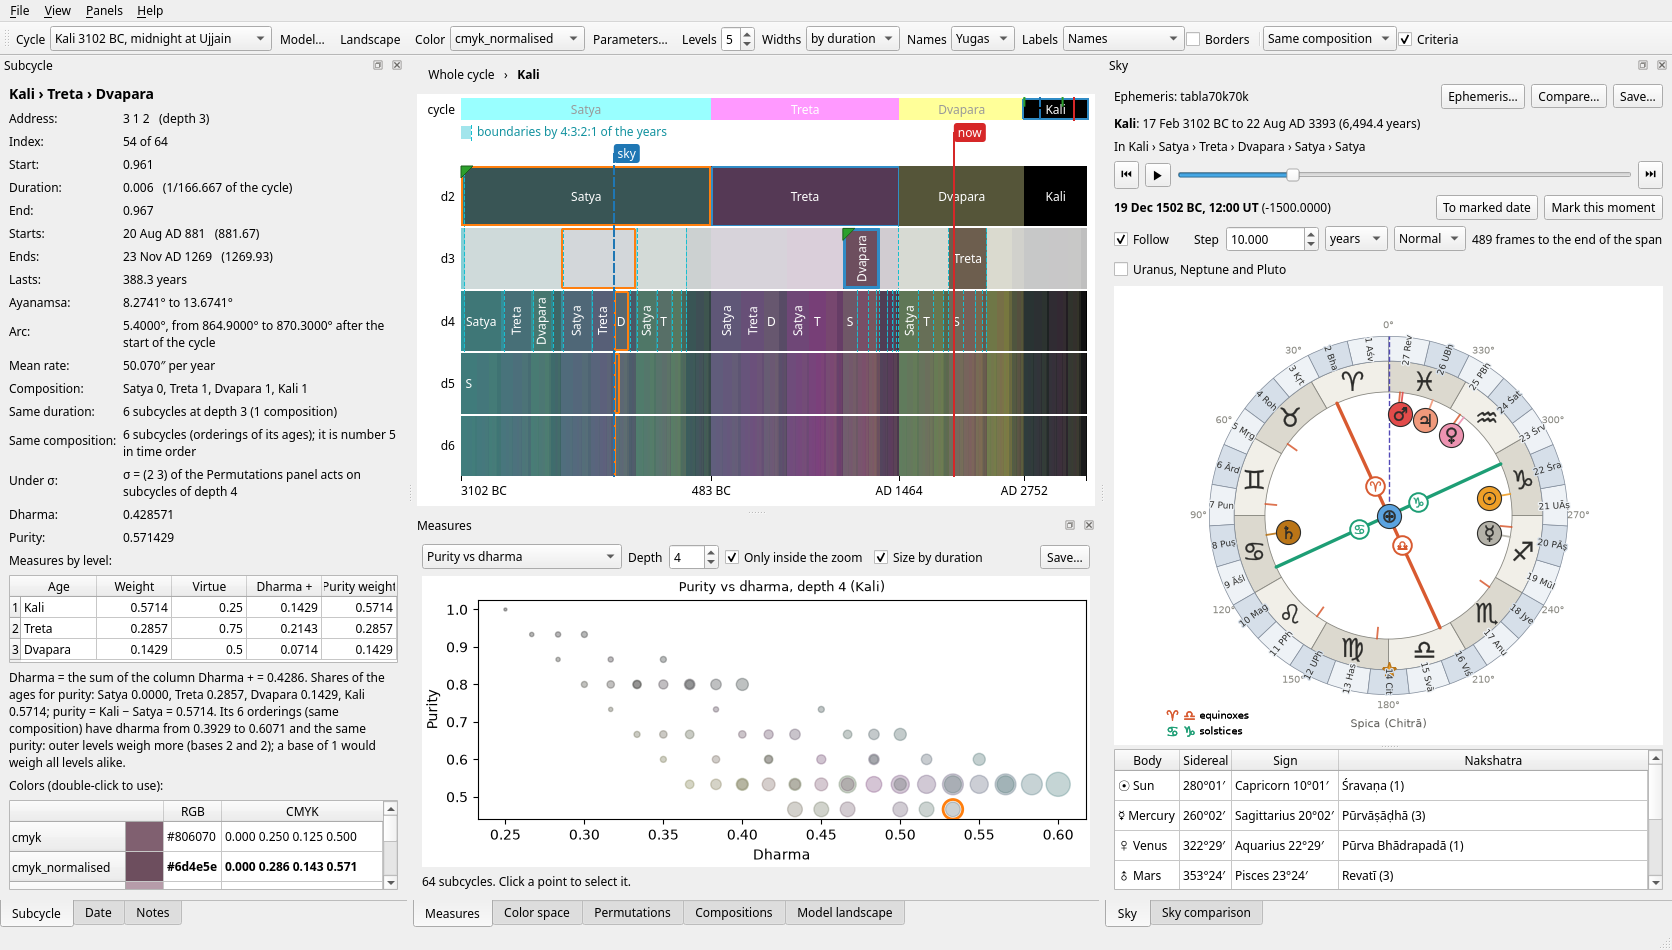
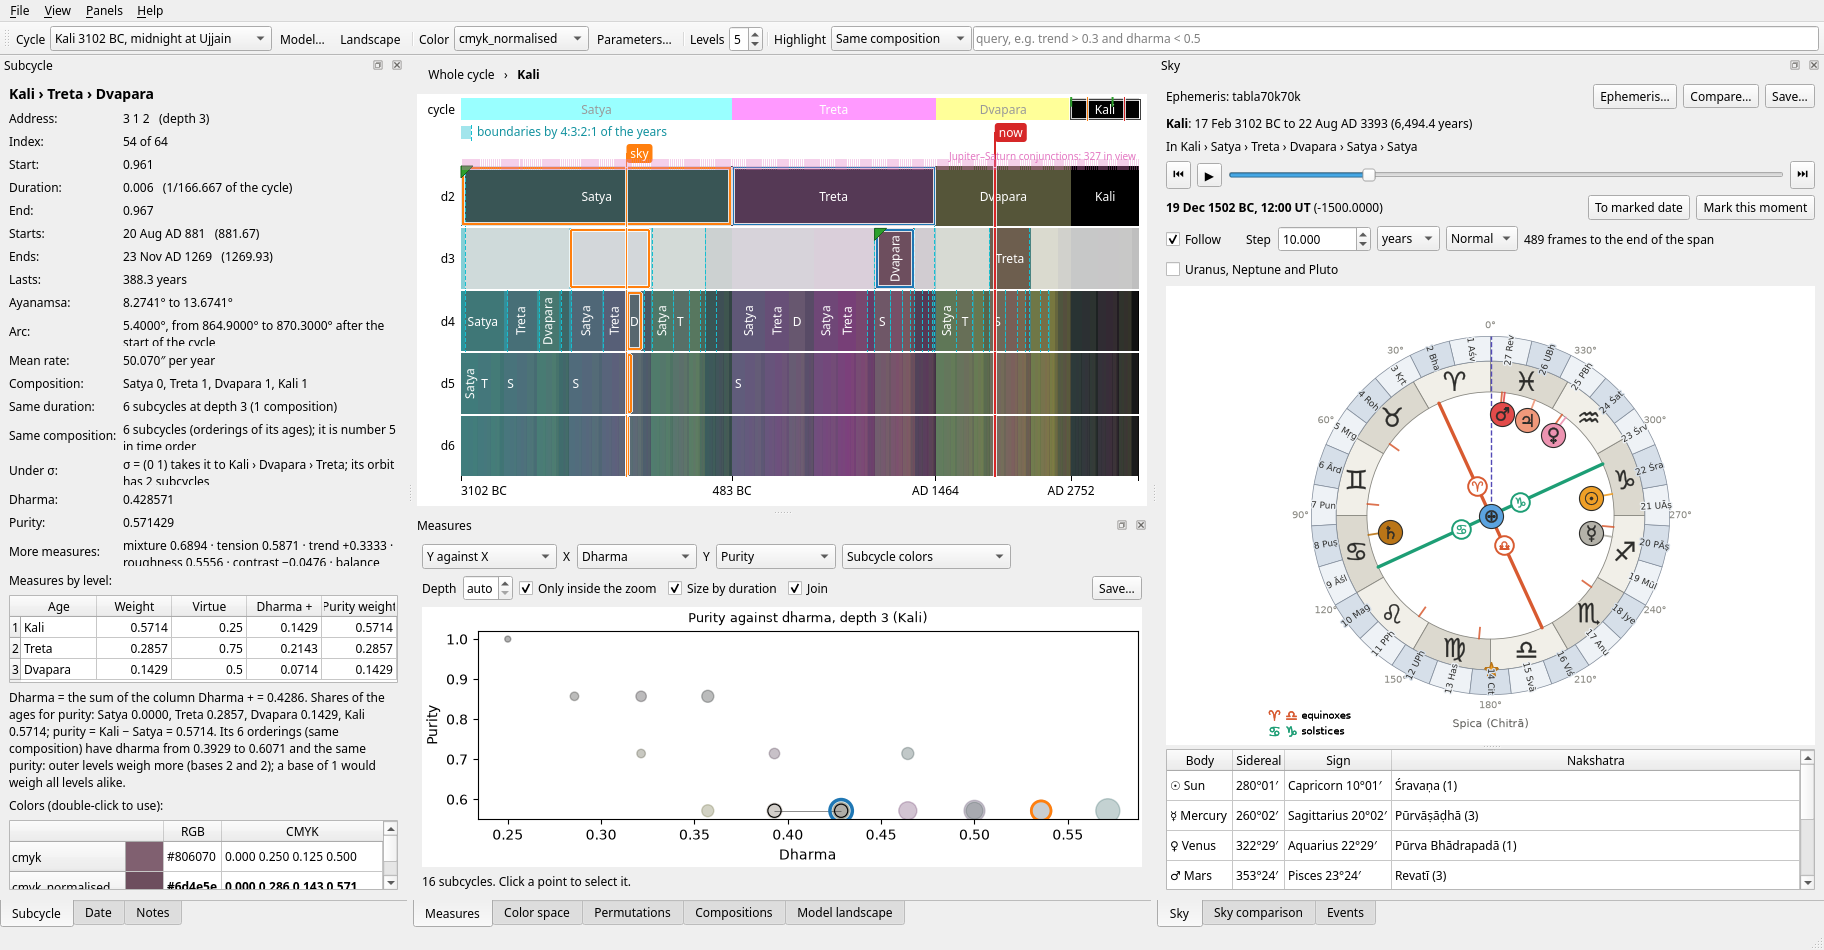
Give each role one color in the navigator and the plots (selection blue, sky moment orange, date red), with solid cursors, thinner borders and a light edge so that they show over any color

diff --git a/cycles/gui/navigator.py b/cycles/gui/navigator.py
@@ -18,7 +18,7 @@ from PySide6.QtGui import QColor, QFont, QPainter, QPen, QPolygonF
 from PySide6.QtWidgets import QApplication, QHBoxLayout, QLabel, QSizePolicy, QToolButton, QToolTip, QWidget
 
 from cycles.gui.state import (
-    BOOKMARK_COLOR, EVENT_COLOR, MAX_DEPTH, MOMENT_COLOR, PERMUTATION_COLOR, CycleState, address_of, children_range, current_year,
+    BOOKMARK_COLOR, DATE_COLOR, EVENT_COLOR, MAX_DEPTH, MOMENT_COLOR, SELECTION_COLOR, PERMUTATION_COLOR, CycleState, address_of, children_range, current_year,
     date_text, span_text, tcoord, time_text,
 )
 
@@ -29,6 +29,20 @@ TAG_GAP = 3          # around the band of the marker tags, between the overview 
 ROW_GAP = 2          # between rows
 # the two criteria for dividing the cycle, when the navigator compares them
 CRITERIA_COLORS = {'angle': '#8c564b', 'time': '#17becf'}
+SELECTION_WIDTH = 2.0      # border of the selected subcycle (and of those that contain the sky moment, with Follow)
+PARENT_WIDTH = 1.0         # border of its parents
+CURSOR_WIDTH = 1.5         # the lines of the marked date and the sky moment
+ZOOM_COLOR = '#404040'     # the frame of the zoomed part on the overview strip
+HALO = QColor(255, 255, 255, 210)    # the light edge under borders and cursors, to stand out over any color
+
+
+def stroke(painter: QPainter, color: QColor, width: float, draw) -> None:
+    """Draw (``draw()``) a line or border in ``color`` over a light edge a pixel wider on each side."""
+    painter.setPen(QPen(HALO, width + 2))
+    draw()
+    painter.setPen(QPen(color, width))
+    draw()
+
 CRITERIA_NAMES = {'angle': '4:3:2:1 of the precession arc', 'time': '4:3:2:1 of the years'}
 CRITERIA_MIN_CELL = 3.0    # mean cell width (px) of the rows where they are compared (finer: zoom in)
 CRITERIA_TICK_CELL = 8.0   # ... and where the other boundaries are also drawn as dashed lines
@@ -194,12 +208,11 @@ class Navigator(QWidget):
 
         # Selection and its ancestors
         if selection:
-            highlight = palette.highlight().color()
             for rect, address, depth, _ in cells:
                 if address == selection[:depth]:
-                    width = 3 if address == selection else 1.5
-                    painter.setPen(QPen(highlight, width))
-                    painter.drawRect(rect.adjusted(width / 2, width / 2, -width / 2, -width / 2))
+                    width = SELECTION_WIDTH if address == selection else PARENT_WIDTH
+                    inner = rect.adjusted(width / 2 + 1, width / 2 + 1, -width / 2 - 1, -width / 2 - 1)
+                    stroke(painter, QColor(SELECTION_COLOR), width, lambda r=inner: painter.drawRect(r))
             # its image under the σ of the Permutations panel, with the orbit highlighted
             orbit = state.permutation_orbit(selection) if state.highlight == 'orbit' else None
             if orbit and len(orbit) > 1:
@@ -211,10 +224,10 @@ class Navigator(QWidget):
         # The subcycles that contain the sky moment (Follow)
         if state.follow and state.sky_time is not None:
             moment = {depth: state.moment_index(depth) for depth in self._rows()}
-            painter.setPen(QPen(QColor(MOMENT_COLOR), 2))
             for rect, _, depth, index in cells:
                 if moment.get(depth) == index:
-                    painter.drawRect(rect.adjusted(1, 1, -1, -1))
+                    inner = rect.adjusted(2, 2, -2, -2)
+                    stroke(painter, QColor(MOMENT_COLOR), SELECTION_WIDTH, lambda r=inner: painter.drawRect(r))
 
         self._draw_bookmarks(painter, cells)
 
@@ -499,15 +512,14 @@ class Navigator(QWidget):
             shade.setAlphaF(0.6)
             painter.fillRect(QRectF(strip.left(), strip.top(), x0 - strip.left(), strip.height()), shade)
             painter.fillRect(QRectF(x1, strip.top(), strip.right() - x1, strip.height()), shade)
-            painter.setPen(QPen(self.palette().highlight().color(), 2))
-            painter.drawRect(QRectF(x0 - 1, strip.top() + 1, x1 - x0 + 2, strip.height() - 2))
-        for year, color, style in ((state.date, QColor('#d62728'), Qt.PenStyle.SolidLine),
-                                   (state.sky_time, QColor('#1f77b4'), Qt.PenStyle.DashLine)):
+            frame = QRectF(x0 - 1, strip.top() + 1, x1 - x0 + 2, strip.height() - 2)
+            stroke(painter, QColor(ZOOM_COLOR), PARENT_WIDTH, lambda: painter.drawRect(frame))
+        for year, color in ((state.date, QColor(DATE_COLOR)), (state.sky_time, QColor(MOMENT_COLOR))):
             u = state.position(year)
             if u is not None:
                 x = strip.left() + u * strip.width()
-                painter.setPen(QPen(color, 2, style))
-                painter.drawLine(QPointF(x, strip.top()), QPointF(x, strip.bottom()))
+                stroke(painter, color, CURSOR_WIDTH,
+                       lambda x=x: painter.drawLine(QPointF(x, strip.top()), QPointF(x, strip.bottom())))
 
     def _overview_yuga(self, pos: QPointF) -> int | None:
         strip = self._overview_rect()
@@ -553,7 +565,7 @@ class Navigator(QWidget):
                 last_right = left + width
 
     def _draw_markers(self, painter: QPainter, cells) -> None:
-        """The marked date (red) and the moment of the sky chart (dashed blue)."""
+        """The marked date (red) and the moment of the sky chart (orange), solid lines with a light edge."""
         state = self.state
         self._tags = {}
         dragged = self._drag[0] if self._drag else None
@@ -561,14 +573,12 @@ class Navigator(QWidget):
         if state.date is not None:
             date_label = ('now' if abs(state.date - current_year()) < 1 / 365.25 and dragged != 'date'
                           else date_text(state.date))
-        self._draw_marker(painter, cells, 'date', state.date, QColor('#d62728'), Qt.PenStyle.SolidLine,
-                          date_label, 0)
+        self._draw_marker(painter, cells, 'date', state.date, QColor(DATE_COLOR), date_label, 0)
         if state.sky_time is not None:
-            self._draw_marker(painter, cells, 'sky', state.sky_time, QColor('#1f77b4'), Qt.PenStyle.DashLine,
+            self._draw_marker(painter, cells, 'sky', state.sky_time, QColor(MOMENT_COLOR),
                               date_text(state.sky_time) if dragged == 'sky' else 'sky', 1)
 
-    def _draw_marker(self, painter: QPainter, cells, kind: str, year, color: QColor, style, label,
-                     line: int) -> None:
+    def _draw_marker(self, painter: QPainter, cells, kind: str, year, color: QColor, label, line: int) -> None:
         """
         Line at ``year`` through every row (also with equal widths), with its tag on line ``line``
         of the tag band, joined to the line in the first row.
@@ -580,7 +590,6 @@ class Navigator(QWidget):
         start, end = self._focus_extent()
         if not start <= u <= end:
             return
-        painter.setPen(QPen(color, 2, style))
         top = None
         for rect, address, depth, index in cells:
             # the cell of each row that contains the time
@@ -588,7 +597,8 @@ class Navigator(QWidget):
             c_start, c_duration = float(level.starts[index]), float(level.durations[index])
             if c_start <= u < c_start + c_duration or (u == 1.0 and c_start + c_duration >= 1.0 - 1e-12):
                 x = rect.left() + (u - c_start) / c_duration * rect.width()
-                painter.drawLine(QPointF(x, rect.top()), QPointF(x, rect.bottom()))
+                stroke(painter, color, CURSOR_WIDTH,
+                       lambda x=x, r=rect: painter.drawLine(QPointF(x, r.top()), QPointF(x, r.bottom())))
                 top = x if top is None else top
         if top is not None and label:
             metrics = painter.fontMetrics()
@@ -596,7 +606,8 @@ class Navigator(QWidget):
             height = self._tag_height()
             y = band.top() + line * (height + 2)
             # the line goes on up through the band to the tag
-            painter.drawLine(QPointF(top, y + height / 2), QPointF(top, band.bottom() + TAG_GAP))
+            stroke(painter, color, CURSOR_WIDTH,
+                   lambda: painter.drawLine(QPointF(top, y + height / 2), QPointF(top, band.bottom() + TAG_GAP)))
             width = metrics.horizontalAdvance(label) + 8
             left = top if top + width < self.width() - 8 else top - width
             tag = QRectF(left, y, width, height)

diff --git a/docs/es/generar_figuras/figuras_explorador.py b/docs/es/generar_figuras/figuras_explorador.py
@@ -61,15 +61,17 @@ if 'shots' in WHICH:
     w.docks['inspector'].raise_(); spin(60)
     w.grab().save(f"{OUT}/ventana_principal.png")
     w.navigator.grab().save(f"{OUT}/navegador.png")
-    dock_shot('inspector', 'panel_subciclo.png', (520, 900))
+    dock_shot('inspector', 'panel_subciclo.png', (520, 960))
     dock_shot('date', 'panel_fecha.png', (620, 520))
     dock_shot('sky', 'panel_cielo.png', (700, 900))
     def compare_prep(p):
         p.kind.setCurrentIndex(p.kind.findData('all')); p.order.setCurrentIndex(p.order.findData('similar')); p.render()
     dock_shot('skycompare', 'panel_comparacion_cielos.png', (1000, 900), compare_prep)
     def measures_prep(p):
-        p.kind.setCurrentIndex(0); p.depth.setValue(4); p.render()
-    dock_shot('measures', 'panel_medidas.png', (900, 650), measures_prep)
+        p.kind.setCurrentIndex(p.kind.findData('scatter'))
+        p.x_measure.setCurrentIndex(p.x_measure.findData('tension')); p.y_measure.setCurrentIndex(p.y_measure.findData('trend'))
+        p.color_by.setCurrentIndex(p.color_by.findData('dharma')); p.inside.setChecked(False); p.depth.setValue(4); p.render()
+    dock_shot('measures', 'panel_medidas.png', (980, 680), measures_prep)
     dock_shot('colorspace', 'panel_espacio_color.png', (800, 700))
     def perm_prep(p):
         p.preset.setCurrentText('Swap the last two'); p.acts.setCurrentIndex(p.acts.findData('below')); p.depth.setValue(4); spin(); p.render()

diff --git a/cycles/gui/measures.py b/cycles/gui/measures.py
@@ -17,7 +17,7 @@ from PySide6.QtWidgets import QCheckBox, QComboBox, QHBoxLayout, QLabel, QSpinBo
 from cycles.functions.color import measure_colors
 from cycles.functions.measure import MEASURES
 from cycles.gui.links import draw_links
-from cycles.gui.state import MAX_DEPTH, MOMENT_COLOR, CycleState, address_of, children_range, tcoord
+from cycles.gui.state import MAX_DEPTH, MOMENT_COLOR, SELECTION_COLOR, CycleState, address_of, children_range, tcoord
 from cycles.plotting.generic import plot_y_vs_x
 
 # Plot kinds: key -> label; Y against X, against time or index, or X and Y with time or index as a third axis
@@ -346,7 +346,7 @@ class MeasuresPanel(QWidget):
             return
         k = positions.get(tcoord(selection))
         if k is not None:
-            self._highlights.append(self._ring([k], s=260, color='#1f77b4', width=2.5))
+            self._highlights.append(self._ring([k], s=260, color=SELECTION_COLOR, width=2.5))
 
     def _ring(self, points: list[int], s: float, color: str, width: float):
         """Hollow markers around the plotted points at positions ``points`` (2D or 3D)."""

diff --git a/cycles/gui/colorspace.py b/cycles/gui/colorspace.py
@@ -20,7 +20,7 @@ from PySide6.QtWidgets import (
 from cycles.functions.division import CMYK_KEYS
 from cycles.functions.view import bottom_view, camera_view_angles, top_view
 from cycles.gui.links import draw_links
-from cycles.gui.state import MOMENT_COLOR, CycleState, address_of, children_range, tcoord
+from cycles.gui.state import MOMENT_COLOR, SELECTION_COLOR, CycleState, address_of, children_range, tcoord
 from cycles.plotting.color import draw_color_path_3d, draw_colors_3d, draw_rgb_cube, setup_color_axes_3d
 
 MAX_PLOT_DEPTH = 7
@@ -281,7 +281,7 @@ class ColorSpacePanel(QWidget):
         if k is not None:
             c = self._coords[k]
             self._highlights.append(self.ax.scatter([c[0]], [c[1]], [c[2]], s=220, facecolors='none',
-                                                    edgecolors='#1f77b4', linewidths=2.5, depthshade=False))
+                                                    edgecolors=SELECTION_COLOR, linewidths=2.5, depthshade=False))
 
     # -- interaction
 

diff --git a/cycles/gui/skycompare.py b/cycles/gui/skycompare.py
@@ -29,7 +29,7 @@ from PySide6.QtWidgets import (
 )
 
 from cycles.gui.state import (
-    CycleState, address_of, children_range, date_text, equal_duration_indices,
+    SELECTION_COLOR, CycleState, address_of, children_range, date_text, equal_duration_indices,
     same_composition_indices, tcoord,
 )
 
@@ -49,7 +49,6 @@ RANDOM_MOMENTS = 20_000     # random moments of the span, for the reference dist
 BODY_NAMES = {'sun': 'Sun', 'mercury': 'Mercury', 'venus': 'Venus', 'mars': 'Mars', 'jupiter': 'Jupiter',
               'saturn': 'Saturn', 'uranus': 'Uranus', 'neptune': 'Neptune', 'pluto': 'Pluto'}
 SIGNS = ['Ari', 'Tau', 'Gem', 'Can', 'Leo', 'Vir', 'Lib', 'Sco', 'Sag', 'Cap', 'Aqu', 'Pis']
-SELECTION_COLOR = '#1f77b4'
 MARKED_COLOR = '#d62728'    # members highlighted in the navigator, on the strip
 CHART_PAD = 6.0             # pixels between neighbouring charts
 STRIP_SHARE, STRIP_MIN, STRIP_MAX = 0.2, 50.0, 150.0     # height of the strip: share of the canvas, in pixels

diff --git a/cycles/gui/permutations.py b/cycles/gui/permutations.py
@@ -22,7 +22,7 @@ from PySide6.QtWidgets import (
 from cycles.functions.permutation import (
     cycle_text, cycle_type, cycles, identity, order, parse_permutation, permute_digits, power, sign, tcoords_of,
 )
-from cycles.gui.state import MAX_DEPTH, MOMENT_COLOR, CycleState, address_of, children_range, tcoord
+from cycles.gui.state import MAX_DEPTH, MOMENT_COLOR, SELECTION_COLOR, CycleState, address_of, children_range, tcoord
 
 VIEWS = {
     'timeline': 'Powers timeline',
@@ -39,7 +39,6 @@ LINES = {'auto': 'Lines: auto', 'all': 'Lines: all', 'none': 'Lines: none'}
 MATRIX_IMAGE = 1024       # largest matrix drawn as an image (larger: as points)
 AUTO_LINES = 1024          # largest number of subcycles whose lines are drawn in auto
 ROW_GAP = 1.4              # between the rows of the timeline, in row heights
-SELECTION_COLOR = '#1f77b4'
 SUPERSCRIPTS = str.maketrans('0123456789', '⁰¹²³⁴⁵⁶⁷⁸⁹')
 
 

diff --git a/cycles/gui/state.py b/cycles/gui/state.py
@@ -33,8 +33,10 @@ from cycles.functions.timescale import AGE_NAMES, YUGA_NAMES, TimeMap
 MAX_DEPTH = 9
 # Name sets for the four ages
 NAME_SETS = {'Yugas': YUGA_NAMES, 'Ages': AGE_NAMES}
-# Color of the highlight of the subcycles that contain the sky moment
-MOMENT_COLOR = '#ff7f0e'
+# One color per role, in the navigator and in every plot
+SELECTION_COLOR = '#1f77b4'     # the selected subcycle (and, thinner, its parents): blue
+MOMENT_COLOR = '#ff7f0e'        # the moment of the sky chart: its cursor and tag, and the subcycles with Follow
+DATE_COLOR = '#d62728'          # the marked date: its cursor and tag
 # How subcycles are labelled in the navigator
 LABEL_MODES = {'names': 'Names', 'dots': 'Dots (4, 3, 2, 1)', 'both': 'Names and dots', 'none': 'None'}
 NO_MODEL_GRAY = 0.85     # the colorings of the cycle model without one

diff --git a/cycles/gui/compositions.py b/cycles/gui/compositions.py
@@ -28,7 +28,7 @@ from PySide6.QtWidgets import (
 from cycles.functions.composition import compositions_grouped_by_duration
 from cycles.functions.view import top_view
 from cycles.gui.state import (
-    MAX_DEPTH, MOMENT_COLOR, CycleState, address_of, children_range, tcoord,
+    MAX_DEPTH, MOMENT_COLOR, SELECTION_COLOR, CycleState, address_of, children_range, tcoord,
 )
 
 PICK_RADIUS = 9          # pixels
@@ -45,7 +45,6 @@ VIEWS = {
     'kali': ('From the Kali vertex', top_view(VERTICES[3])),
 }
 COLORS = {'duration': 'Duration', 'coloring': 'Composition coloring', 'count': 'Number of subcycles'}
-SELECTION_COLOR = '#1f77b4'
 
 
 class CompositionsPanel(QWidget):

diff --git a/docs/es/markdown/12_aplicacion_grafica.md b/docs/es/markdown/12_aplicacion_grafica.md
@@ -14,7 +14,12 @@ La interfaz está en inglés. Este capítulo describe cada parte con los nombres
 El área central muestra las subdivisiones del subciclo ampliado (el **zoom**), una fila por profundidad, cada
 subciclo con su color. Arriba, una franja con el **ciclo completo**, con la parte ampliada enmarcada, la fecha
 marcada y el momento del cielo; pulsar una edad en ella amplía esa edad. Entre la franja y las filas hay una
-**banda de etiquetas** con las de la fecha (*now* o la fecha, en rojo) y el momento del cielo (*sky*, en azul).
+**banda de etiquetas** con las de la fecha (*now* o la fecha, en rojo) y el momento del cielo (*sky*, en naranja).
+
+Cada papel tiene un solo color, en el navegador y en todos los gráficos: la **selección** en azul (un borde de
+2 píxeles; sus padres, de 1), el **momento del cielo** en naranja (su línea, su etiqueta y, con *Follow*, los
+subciclos que lo contienen) y la **fecha marcada** en rojo. Las líneas son continuas, y bordes y líneas llevan un
+filo claro debajo, para que se vean sobre cualquier color de celda.
 
 | Acción | Efecto |
 |---|---|
@@ -118,7 +123,7 @@ inicio, su fin y su duración; pulsar una fila lo selecciona.
 ![El panel Sky](figuras/panel_cielo.png)
 
 El zodiaco con los planetas (como en `study_of_precession`) en un **momento** del tramo ampliado, con una tabla de
-longitudes sidéreas, signos y nakṣatras. El momento es la línea azul discontinua del navegador:
+longitudes sidéreas, signos y nakṣatras. El momento es la línea naranja del navegador:
 
 - el deslizador lo mueve por el tramo; Mayús + clic en el navegador o arrastrar la etiqueta *sky* lo llevan a
   cualquier sitio;

diff --git a/CHANGELOG.md b/CHANGELOG.md
@@ -51,6 +51,10 @@ the commit `vX.Y.Z`.
 - **A tidier toolbar**: one row, grouped by topic with separators (the cycle model; the coloring; the levels; the
   highlight and the query). The drawing options set once moved to the *View* menu as checkable items: *Widths*,
   *Names*, *Labels*, *Borders* (`Ctrl+Shift+B`) and *Compare the division criteria* (`Ctrl+Shift+C`).
+- **One color per role**, in the navigator and the plots (`state.SELECTION_COLOR`, `MOMENT_COLOR`, `DATE_COLOR`):
+  the selection blue (a thinner border, 2 px, its parents 1 px), the sky moment orange (its cursor and tag, as the
+  Follow boxes already were), the marked date red. The cursors are solid lines, and borders and cursors have a
+  light edge so that they stand out over cells of any color.
 - **Tests in parallel**: `pytest-xdist` in the `test` extra; `pytest -n 8` runs the suite in under a minute instead
   of nine.
 - **README**: a short introduction with installation, a quick start, the chapters of the documentation and the
